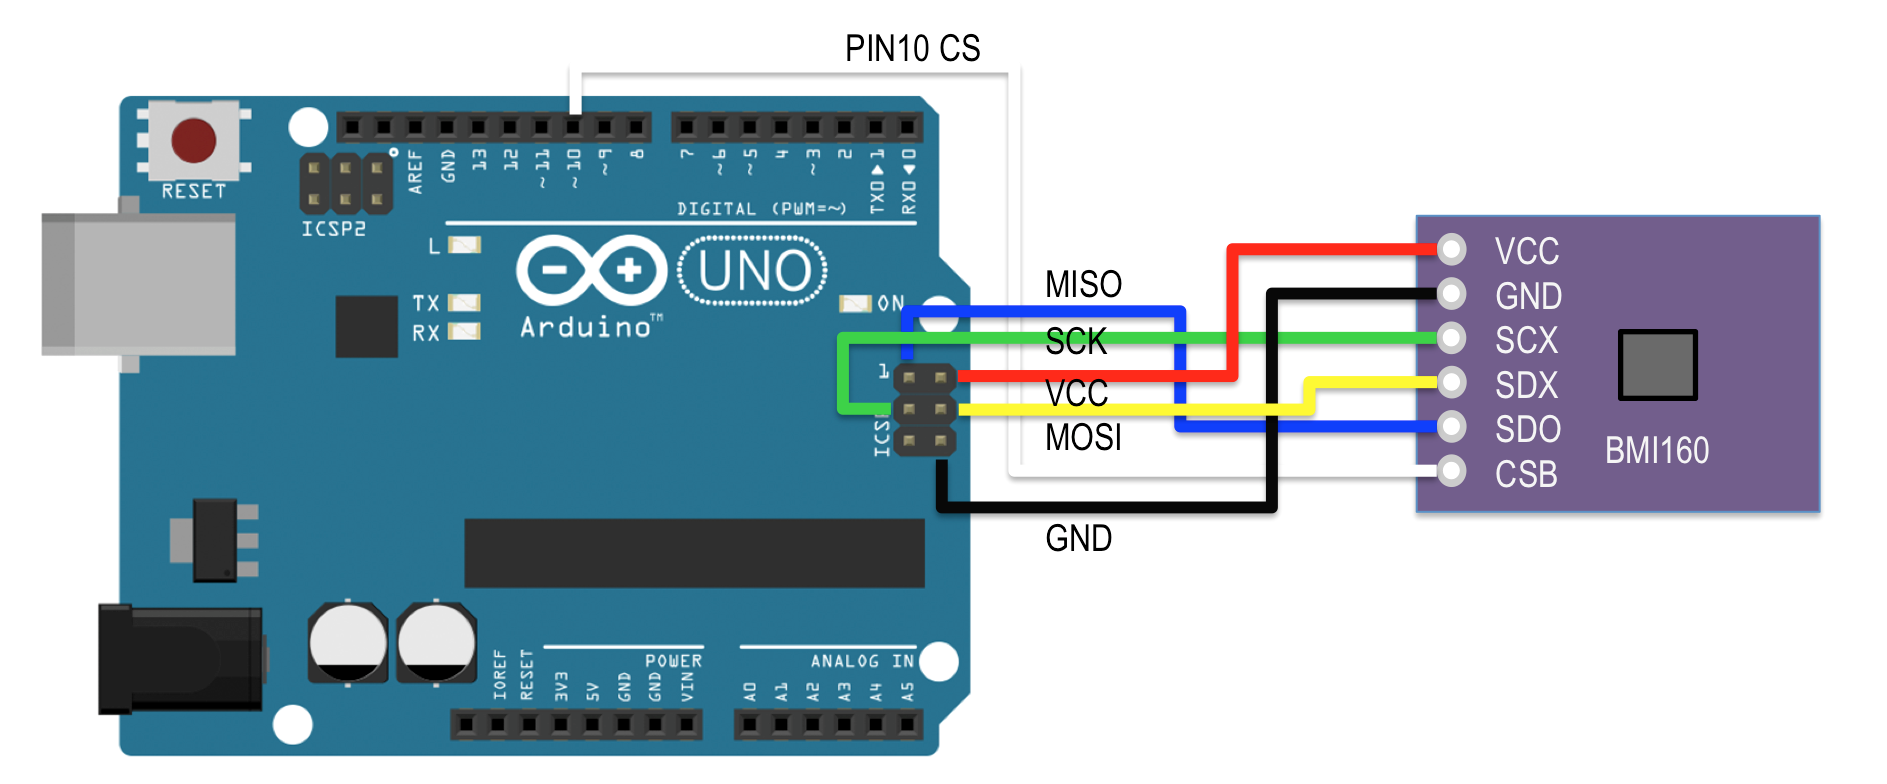
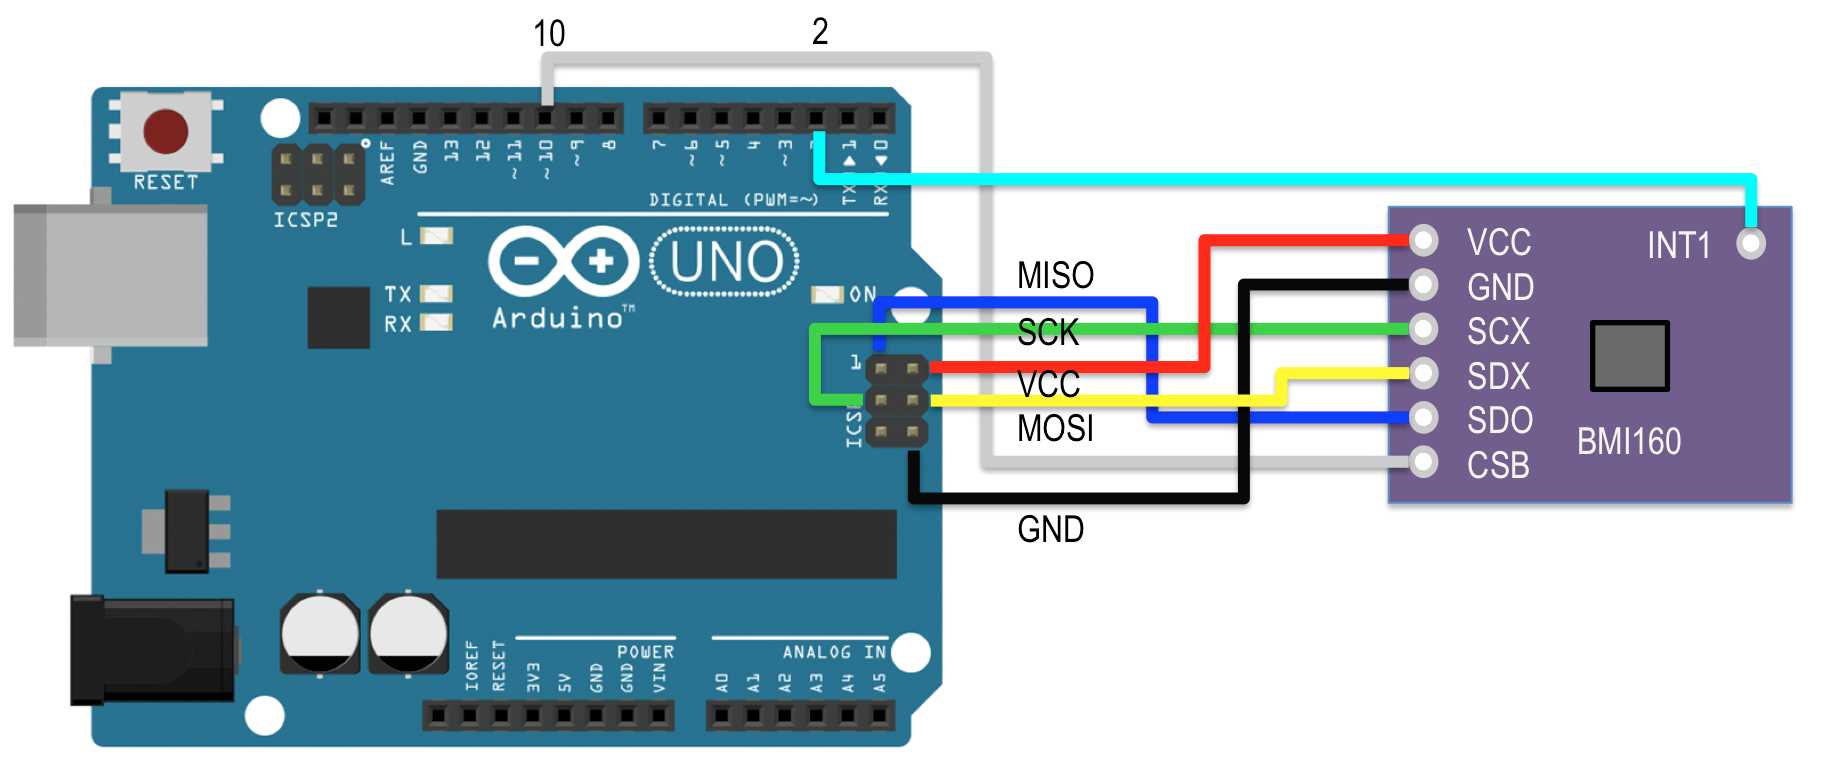
Add interruption support

Changed region(s): [[0.0, 0.0306, 0.9956, 0.9796]]

diff --git a/BMI160Gen.cpp b/BMI160Gen.cpp
@@ -1,10 +1,27 @@
 #include "BMI160Gen.h"
 #include "internal/ss_spi.h"
 
-bool BMI160GenClass::begin(const int spi_cs_pin)
+#if defined(ARDUINO_ARC32_TOOLS)
+#define digitalPinToInterrupt(a) (a)
+#endif
+
+bool BMI160GenClass::begin(const int spi_cs_pin, const int intr_pin)
 {
     ss_spi_cs = spi_cs_pin;
+    if (0 <= intr_pin) {
+        interrupt_pin = digitalPinToInterrupt(intr_pin);
+    }
     return CurieIMUClass::begin();
+}
+
+void BMI160GenClass::attachInterrupt(void (*callback)(void))
+{
+    CurieIMUClass::attachInterrupt(NULL);
+    if (0 <= interrupt_pin) {
+        ::attachInterrupt(interrupt_pin, callback, FALLING); 
+    } else {
+        Serial.println("BMI160GenClass::attachInterrupt: No interruption pin specified.");
+    }
 }
 
 BMI160GenClass BMI160;

diff --git a/BMI160Gen.h b/BMI160Gen.h
@@ -5,8 +5,11 @@
 #include "CurieIMU.h"
 
 class BMI160GenClass : public CurieIMUClass {
+    protected:
+        int interrupt_pin = -1;
     public:
-        bool begin(const int spi_cs_pin = -1);
+        bool begin(const int spi_cs_pin = -1, const int intr_pin = -1);
+        void attachInterrupt(void (*callback)(void));
 };
 
 extern BMI160GenClass BMI160;
